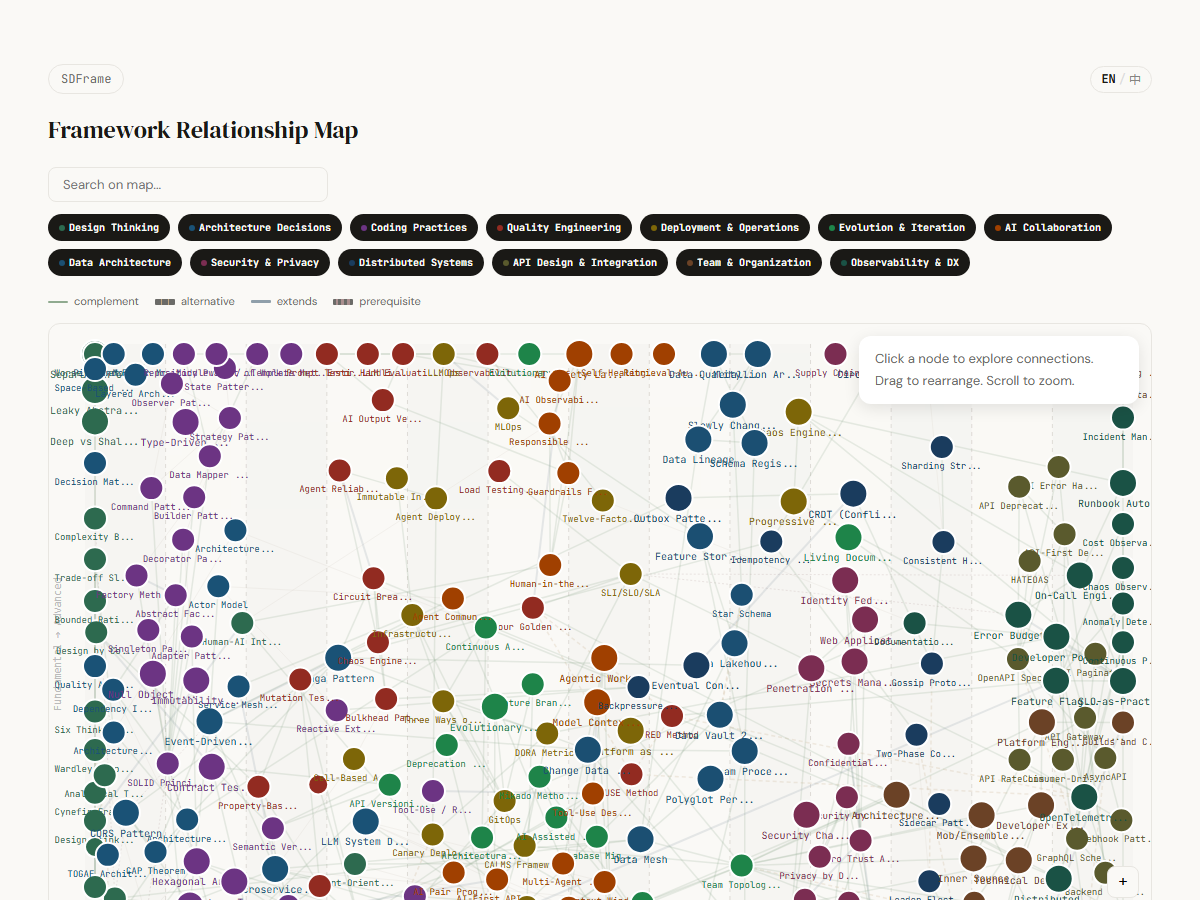
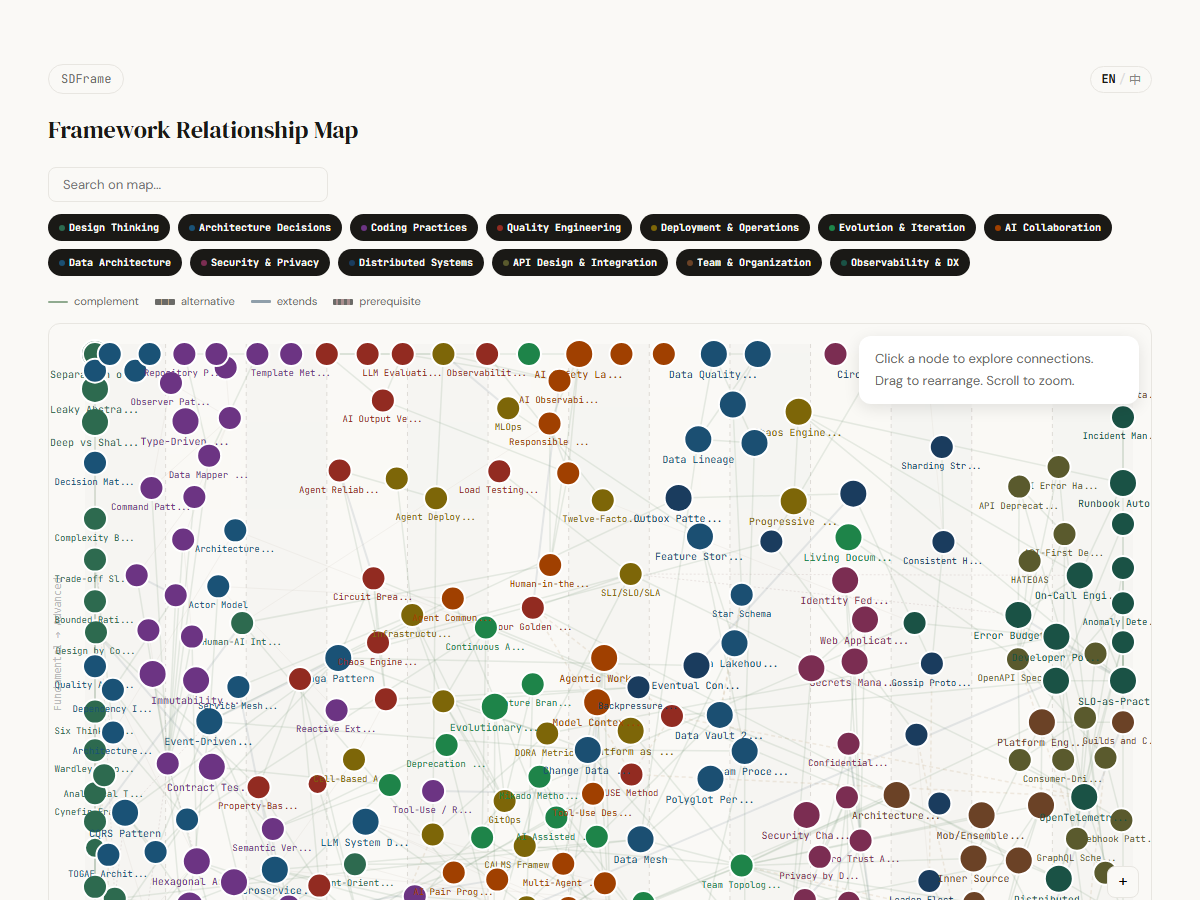
feat: map label collision detection — greedy placement with zoom-aware thresholds (Sprint S26)

diff --git a/src/pages/MapPage.tsx b/src/pages/MapPage.tsx
@@ -26,6 +26,52 @@ interface SimLink extends d3.SimulationLinkDatum<SimNode> {
   relType: RelationType
 }
 
+// Greedy label placement with bounding-box collision detection.
+// Returns the set of slugs whose labels can be displayed without overlap.
+function computeVisibleLabels(
+  nodes: SimNode[],
+  zoomLevel: number,
+  activeCategories: Set<CategoryKey>,
+  lang: 'en' | 'zh',
+): Set<string> {
+  const minConn = zoomLevel > 2.5 ? 0 : zoomLevel > 1.5 ? 1 : zoomLevel > 0.8 ? 2 : 3
+
+  const candidates = nodes
+    .filter(n => activeCategories.has(n.category) && n.related.length >= minConn && n.x != null)
+    .sort((a, b) => b.related.length - a.related.length)
+
+  const charW = 5.5
+  const labelH = 14
+  const pad = 8
+
+  type Rect = { x: number; y: number; w: number; h: number }
+  const placed: Rect[] = []
+  const visible = new Set<string>()
+
+  for (const node of candidates) {
+    const name = lang === 'zh' ? node.name_zh : node.name
+    const maxLen = lang === 'zh' ? 8 : 12
+    const len = Math.min(name.length, maxLen)
+    const nodeR = 6 + Math.min(node.related.length, 4) * 2
+    const w = len * charW + pad
+    const h = labelH
+    const x = node.x! - w / 2
+    const y = node.y! + nodeR + 2
+
+    const rect: Rect = { x, y, w, h }
+    const hit = placed.some(p =>
+      !(rect.x + rect.w < p.x || p.x + p.w < rect.x ||
+        rect.y + rect.h < p.y || p.y + p.h < rect.y)
+    )
+
+    if (!hit) {
+      placed.push(rect)
+      visible.add(node.slug)
+    }
+  }
+  return visible
+}
+
 export default function MapPage() {
   const { t, localized, locale } = useI18n()
   usePageMeta('Framework Relationship Map', 'Interactive map of 194 software design frameworks and their connections')
@@ -84,13 +130,11 @@ export default function MapPage() {
     })
   }, [])
 
-  // Helper: determine if a node should always show its label
-  const isHighConnection = (d: SimNode) => d.related.length >= 3
-
   // Update visibility when activeCategories changes (without rebuilding the graph)
   useEffect(() => {
     activeCategoriesRef.current = activeCategories
-    const svg = d3.select(svgRef.current)
+    const svgEl = svgRef.current
+    const svg = d3.select(svgEl)
     if (!svg.node()) return
 
     svg.selectAll<SVGCircleElement, SimNode>('.node-circle')
@@ -98,16 +142,9 @@ export default function MapPage() {
       .duration(300)
       .attr('opacity', d => activeCategories.has(d.category) ? 1 : 0.1)
 
-    const showLabels = zoomLevelRef.current > 1.2
-    svg.selectAll<SVGTextElement, SimNode>('.node-label')
-      .transition()
-      .duration(300)
-      .attr('opacity', d => {
-        if (!activeCategories.has(d.category)) return 0
-        if (isHighConnection(d)) return 1
-        if (showLabels && d.related.length >= 2) return 1
-        return 0
-      })
+    // Recompute collision-free labels
+    const updateFn = (svgEl as any)?.__updateLabels
+    if (typeof updateFn === 'function') updateFn()
 
     svg.selectAll<SVGLineElement, SimLink>('.link-line')
       .transition()
@@ -295,18 +332,10 @@ export default function MapPage() {
         // Also transform background layer so axes stay aligned with nodes
         bgLayer.attr('transform', t)
 
-        // Track zoom level and update label visibility threshold
-        const k: number = event.transform.k
-        zoomLevelRef.current = k
-        const showLabels = k > 1.2
-        const currentCategories = activeCategoriesRef.current
-        svg.selectAll<SVGTextElement, SimNode>('.node-label')
-          .attr('opacity', (d: SimNode) => {
-            if (!currentCategories.has(d.category)) return 0
-            if (isHighConnection(d)) return 1
-            if (showLabels && d.related.length >= 2) return 1
-            return 0
-          })
+        // Track zoom level and recompute collision-free labels
+        zoomLevelRef.current = event.transform.k
+        const updateFn = (svgEl as any)?.__updateLabels
+        if (typeof updateFn === 'function') updateFn()
       })
 
     svg.call(zoom)
@@ -366,7 +395,7 @@ export default function MapPage() {
       .attr('stroke', 'white')
       .attr('stroke-width', 2)
 
-    // Node labels: always visible for high-connection nodes, zoom-dependent for others
+    // Node labels — initially hidden, collision detection determines which to show
     const truncateLabel = (d: SimNode) => {
       const name = localized(d, 'name')
       const maxLen = locale === 'zh' ? 8 : 12
@@ -383,9 +412,27 @@ export default function MapPage() {
         const cat = getCategoryByKey(d.category)
         return cat ? cat.colorText : '#666'
       })
-      .attr('opacity', d => isHighConnection(d) ? 1 : 0)
+      .attr('opacity', 0)
       .attr('pointer-events', 'none')
       .text(d => truncateLabel(d))
+
+    // Collision-free label update — shared across zoom, filter, and simulation end
+    const updateLabels = () => {
+      const visible = computeVisibleLabels(
+        nodes,
+        zoomLevelRef.current,
+        activeCategoriesRef.current,
+        locale as 'en' | 'zh',
+      )
+      svg.selectAll<SVGTextElement, SimNode>('.node-label')
+        .transition()
+        .duration(200)
+        .attr('opacity', d => {
+          if (!activeCategoriesRef.current.has(d.category)) return 0
+          return visible.has(d.slug) ? 1 : 0
+        })
+    }
+    ;(svgEl as any).__updateLabels = updateLabels
 
     // Hide tooltip when tapping empty SVG background
     svg.on('touchstart', () => {
@@ -425,13 +472,14 @@ export default function MapPage() {
             return (s === d.slug || tgt === d.slug) ? 'url(#edge-glow)' : 'none'
           })
 
-        // Show labels of connected nodes and the hovered node; keep persistent labels visible at zoom
-        const showLabels = zoomLevelRef.current > 1.2
+        // Show labels of connected nodes and the hovered node
+        const currentVisible = computeVisibleLabels(
+          nodes, zoomLevelRef.current, activeCategoriesRef.current, locale as 'en' | 'zh'
+        )
         svg.selectAll<SVGTextElement, SimNode>('.node-label')
           .attr('opacity', n => {
             if (n.slug === d.slug || connectedSlugs.has(n.slug)) return 1
-            if (isHighConnection(n)) return 0.3
-            if (showLabels && n.related.length >= 2) return 0.3
+            if (currentVisible.has(n.slug)) return 0.3
             return 0
           })
 
@@ -478,14 +526,8 @@ export default function MapPage() {
           .attr('opacity', 0.2)
           .attr('filter', 'none')
 
-        // Restore labels: always show for high-connection, zoom-dependent for others
-        const showLabels = zoomLevelRef.current > 1.2
-        svg.selectAll<SVGTextElement, SimNode>('.node-label')
-          .attr('opacity', n => {
-            if (isHighConnection(n)) return 1
-            if (showLabels && n.related.length >= 2) return 1
-            return 0
-          })
+        // Restore collision-based labels
+        updateLabels()
 
         // Hide tooltip
         const tooltip = tooltipRef.current
@@ -530,13 +572,14 @@ export default function MapPage() {
             return (s === d.slug || tgt === d.slug) ? 'url(#edge-glow)' : 'none'
           })
 
-        // Show labels of connected nodes and the hovered node
-        const showLabels = zoomLevelRef.current > 1.2
+        // Show labels of connected nodes and the touched node
+        const currentVisible = computeVisibleLabels(
+          nodes, zoomLevelRef.current, activeCategoriesRef.current, locale as 'en' | 'zh'
+        )
         svg.selectAll<SVGTextElement, SimNode>('.node-label')
           .attr('opacity', n => {
             if (n.slug === d.slug || connectedSlugs.has(n.slug)) return 1
-            if (isHighConnection(n)) return 0.3
-            if (showLabels && n.related.length >= 2) return 0.3
+            if (currentVisible.has(n.slug)) return 0.3
             return 0
           })
 
@@ -575,12 +618,19 @@ export default function MapPage() {
       })
 
     // Tick
+    let labelsRevealed = false
     simulation.on('tick', () => {
       // Clamp node positions to SVG bounds
       nodes.forEach(d => {
         d.x = Math.max(margin.left + 10, Math.min(width - margin.right - 10, d.x!))
         d.y = Math.max(margin.top + 10, Math.min(height - margin.bottom - 10, d.y!))
       })
+
+      // Show collision-free labels once positions stabilize (alpha < 0.15)
+      if (!labelsRevealed && simulation.alpha() < 0.15) {
+        labelsRevealed = true
+        updateLabels()
+      }
 
       link
         .attr('x1', d => (d.source as SimNode).x!)
@@ -616,9 +666,10 @@ export default function MapPage() {
       svg.transition().duration(500).call(zoom.transform, transform)
     }
 
-    // After simulation settles, automatically fit all nodes in view
+    // After simulation settles, fit view and compute collision-free labels
     simulation.on('end', () => {
       fitToView()
+      updateLabels()
     })
 
     // Expose fitToView for external use (reset view button)